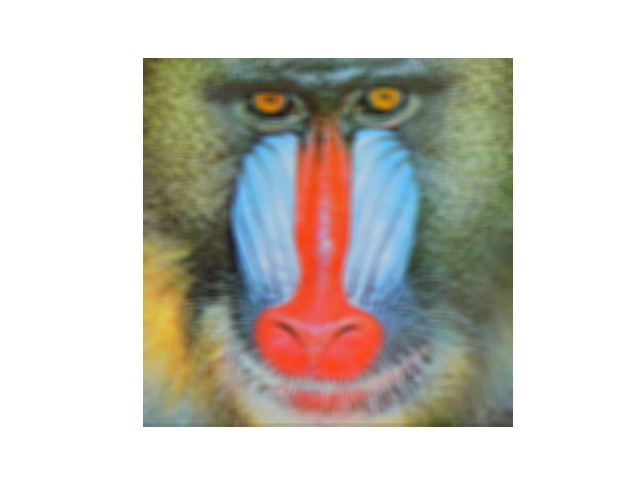
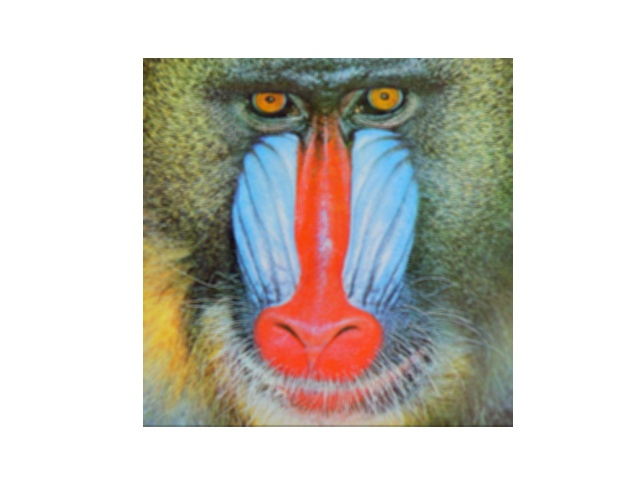
change filter size

diff --git a/HW1/HW1_1.py b/HW1/HW1_1.py
@@ -175,7 +175,7 @@ if __name__ == '__main__':
     if not os.path.exists(logdir):
         os.makedirs(logdir)
 
-    kernel_1 = np.ones((9,13)) / (9*13)
+    kernel_1 = np.ones((5,5)) / 25
     sigmax, sigmay = 5, 5
     
     ret = reflect_padding(image.copy(), kernel_1.shape)
